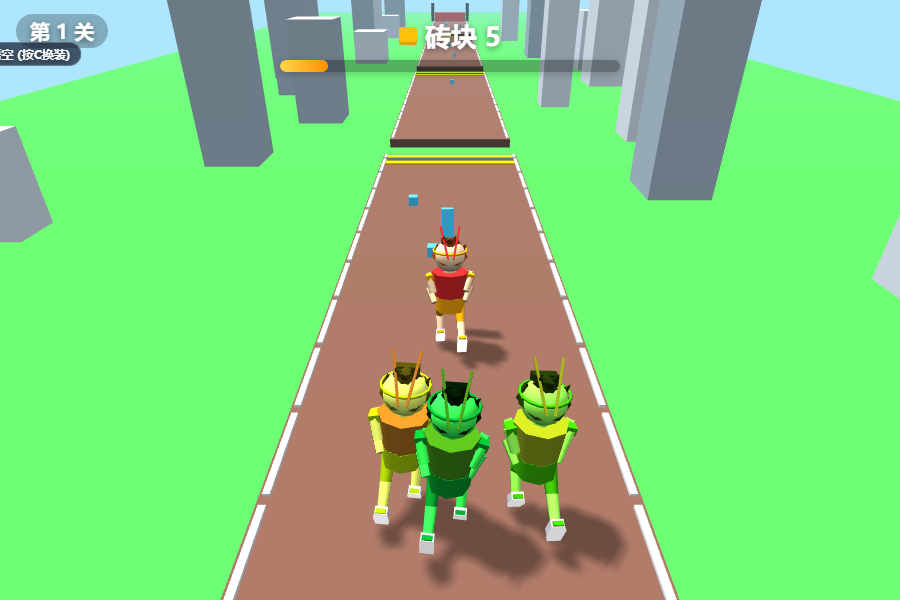
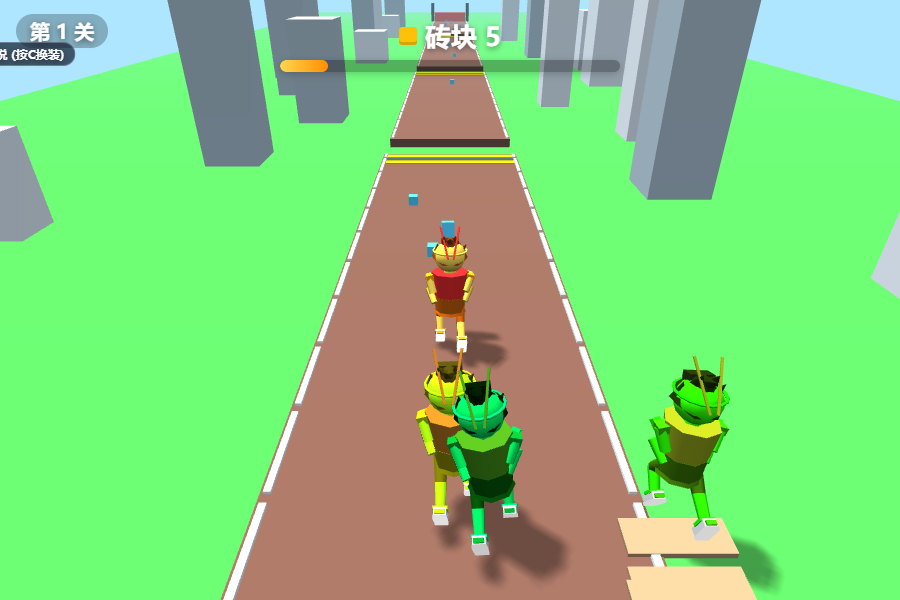
大圣模型对齐 AI Studio 规范 + 砖垛改双手捧握: 金毛靛皮肤/虎皮赭石裙/specialGold高亮/虎斑纹裙甲/步云履踝环(双端); plankMount 移至手上(y1.05); 板子池重建清理; 微信包已重建+补丁; 四门全绿

diff --git a/web-preview/index.html b/web-preview/index.html
@@ -642,10 +642,10 @@ function buildChar() {
   const leftArm = createArm(true);
   const rightArm = createArm(false);
 
-  // 砖垛挂点：胸前手抱位（AI Studio 母本方案；相机已调高成俯视追尾使其可见）
+  // 砖垛挂点：双手捧握位（torso 局部 0.33/0.5 → 世界约 y1.05，正对捧起的双手，对齐「捧在手上」）
   const plankMount = new THREE.Group();
   plankMount.name = 'PlankMount'; // 克隆体靠名字找回关节
-  plankMount.position.set(0, 0.58, 0.62);
+  plankMount.position.set(0, 0.33, 0.5);
   torsoGroup.add(plankMount);
 
   root.traverse((o) => { if (o.isMesh) { o.castShadow = true; o.receiveShadow = false; } }); // art-pack：仅主角投影
@@ -665,11 +665,12 @@ const SKINS = {
   wukong: {
     id: 'wukong',
     name: '齐天大圣·孙悟空',
-    badge: '🐵 孙悟空',
-    clothTop: 0xdc2626,
-    clothBottom: 0xf59e0b,
-    skin: 0xfbd0a2,
-    accent: 0xf59e0b,
+    badge: '👑 传说',
+    clothTop: 0xdc2626,      // 大红战袍
+    clothBottom: 0xb45309,   // 虎皮战裙/赭石（对齐 AI Studio chinesePresets 规范）
+    skin: 0xfcd34d,          // 金毛靛皮肤（对齐 AI Studio 规范）
+    accent: 0xf59e0b,        // 紧箍/金甲金
+    specialGold: 0xfde047,   // 高亮金（对齐 AI Studio 规范）
     hair: 0x78350f,
   },
   nezha: {
@@ -762,8 +763,10 @@ function applySkin(c, skinKey) {
   CHAR_MATS.hair.color.setHex(s.hair);
 
   if (s.id === 'wukong' && accH && accT) {
-    const circletMat = new THREE.MeshLambertMaterial({ color: 0xf59e0b });
-    const circlet = new THREE.Mesh(new THREE.TorusGeometry(0.335, 0.022, 6, 16), circletMat);
+    // specialGold 高亮金 + base 金（对齐 AI Studio 规范的双金层次）
+    const goldMat = new THREE.MeshLambertMaterial({ color: 0xf59e0b });
+    const specialGoldMat = new THREE.MeshLambertMaterial({ color: 0xfde047 });
+    const circlet = new THREE.Mesh(new THREE.TorusGeometry(0.335, 0.022, 6, 16), specialGoldMat);
     circlet.rotation.x = Math.PI / 2 + 0.1;
     circlet.position.set(0, 0.12, 0.02);
     accH.add(circlet);
@@ -775,22 +778,37 @@ function applySkin(c, skinKey) {
       plume.rotation.set(-0.65, sx * 0.18, sx * 0.12);
       accH.add(plume);
     }
-    const plate = new THREE.Mesh(new THREE.BoxGeometry(0.24, 0.24, 0.06), circletMat);
+    // 锁子黄金甲护心镜（specialGold 高光）
+    const plate = new THREE.Mesh(new THREE.BoxGeometry(0.24, 0.24, 0.06), specialGoldMat);
     plate.position.set(0, 0.55, 0.34);
     accT.add(plate);
     for (const sx of [-1, 1]) {
-      const pauldron = new THREE.Mesh(new THREE.BoxGeometry(0.2, 0.12, 0.18), circletMat);
+      const pauldron = new THREE.Mesh(new THREE.BoxGeometry(0.2, 0.12, 0.18), goldMat);
       pauldron.position.set(sx * 0.38, 0.72, 0);
       pauldron.rotation.z = sx * -0.25;
       accT.add(pauldron);
     }
-    const skirt = new THREE.Mesh(new THREE.BoxGeometry(0.28, 0.26, 0.05), plumeMat);
-    skirt.position.set(0, 0.2, 0.18);
-    skirt.rotation.x = 0.2;
+    // 虎皮战裙：外扩裙甲 + 深色虎斑纹（对齐 AI Studio 规范的虎皮裙）
+    const skirt = new THREE.Mesh(new THREE.CylinderGeometry(0.17, 0.33, 0.3, 8), new THREE.MeshLambertMaterial({ color: 0xb45309 }));
+    skirt.position.set(0, 0.1, 0);
     accT.add(skirt);
-    const beltBuckle = new THREE.Mesh(new THREE.BoxGeometry(0.12, 0.08, 0.04), circletMat);
+    for (let i = 0; i < 3; i++) {
+      const stripe = new THREE.Mesh(new THREE.BoxGeometry(0.05, 0.26, 0.05), new THREE.MeshLambertMaterial({ color: 0x451a03 }));
+      const ang = (i / 3) * Math.PI * 2 + 0.4;
+      stripe.position.set(Math.sin(ang) * 0.25, 0.1, Math.cos(ang) * 0.25);
+      stripe.rotation.y = -ang;
+      accT.add(stripe);
+    }
+    const beltBuckle = new THREE.Mesh(new THREE.BoxGeometry(0.12, 0.08, 0.04), specialGoldMat);
     beltBuckle.position.set(0, 0.32, 0.32);
     accT.add(beltBuckle);
+    // 步云履：金箍踝环（鞋身为白，金环点出「步云履」）
+    for (const leg of [c.leftLeg, c.rightLeg]) {
+      if (!leg || !leg.foot) continue;
+      const anklet = new THREE.Mesh(new THREE.BoxGeometry(0.21, 0.045, 0.21), specialGoldMat);
+      anklet.position.set(0, 0.0, 0.02);
+      leg.foot.add(anklet);
+    }
   } else if (s.id === 'nezha' && accH && accT) {
     const bunMat = new THREE.MeshLambertMaterial({ color: 0x0f172a });
     const bunRibbonMat = new THREE.MeshLambertMaterial({ color: 0xdc2626 });
@@ -1684,6 +1702,38 @@ window.__game = {
   resetProgress: () => { qaSession = true; prog.reset(); },
   renderOnce: () => renderer.render(scene, camera),
   canvas: () => renderer.domElement,
+  // QA 调试：列出玩家身边贴地/可疑物体（定位“躺在地上跟随的”是什么）
+  debugGround: () => {
+    const out = [];
+    const p = player.position;
+    scene.traverse((n) => {
+      if (!n.isMesh && !n.isGroup) return;
+      const wp = n.getWorldPosition(new (Object.getPrototypeOf(p).constructor)());
+      const dx = wp.x - p.x, dz = wp.z - p.z;
+      if (dx * dx + dz * dz > 144) return; // 12m 内
+      const kind = n.name || n.type;
+      out.push({ kind, name: n.name || '(anon)', y: Math.round(wp.y * 100) / 100, dx: Math.round(dx * 10) / 10, dz: Math.round(dz * 10) / 10, parent: n.parent ? (n.parent.name || n.parent.type) : '-' });
+    });
+    return out.filter((o) => o.y < 0.6).slice(0, 30);
+  },
+  // QA 调试：对手运行时姿态（关节是否找到、位置、动画相位）
+  debugOpponents: () => opponents.map((o) => {
+    const r = rigOf(o.rig);
+    const missing = [];
+    if (!r.torso) missing.push('torso');
+    if (!r.head) missing.push('head');
+    if (!r.leftLeg || !r.leftLeg.hip) missing.push('leftLeg.hip');
+    if (!r.rightLeg || !r.rightLeg.hip) missing.push('rightLeg.hip');
+    if (!r.leftArm || !r.leftArm.shoulder) missing.push('leftArm.shoulder');
+    if (!r.rightArm || !r.rightArm.shoulder) missing.push('rightArm.shoulder');
+    return {
+      pos: [Math.round(o.rig.position.x * 100) / 100, Math.round(o.rig.position.y * 100) / 100, Math.round(o.rig.position.z * 100) / 100],
+      alive: o.alive, finished: o.finished, bricks: Math.round(o.bricks),
+      hipAngleX: r.leftLeg && r.leftLeg.hip ? Math.round(r.leftLeg.hip.rotation.x * 100) / 100 : null,
+      torsoY: r.torso ? Math.round(r.torso.position.y * 100) / 100 : null,
+      missing,
+    };
+  }),
   // G1 数据回流：导出遥测 events.json（Qoder telemetry-report.mjs 的输入）
   dumpTelemetry: () => {
     const arr = JSON.parse(localStorage.getItem(TELEMETRY_KEY) || '[]');

diff --git a/assets/scripts/CharacterRig.ts b/assets/scripts/CharacterRig.ts
@@ -47,6 +47,7 @@ const GEO = {
   circlet: () => mesh('circlet', () => utils.createMesh(primitives.torus(0.335, 0.025, { radialSegments: 8, tubularSegments: 20 }))),
   bun: () => mesh('bun', () => utils.createMesh(primitives.sphere(0.12, { segments: 8 }))),
   qiankun: () => mesh('qiankun', () => utils.createMesh(primitives.torus(0.24, 0.028, { radialSegments: 8, tubularSegments: 20 }))),
+  tigerSkirt: () => mesh('tigerSkirt', () => utils.createMesh(primitives.cylinder(0.17, 0.33, 0.3, { radialSegments: 8 }))),
   pony: () => mesh('pony', () => utils.createMesh(primitives.cone(0.14, 0.55, { radialSegments: 6 }))),
   sash: () => mesh('sash', () => utils.createMesh(primitives.cylinder(0.35, 0.33, 0.12, { radialSegments: 8 }))),
 };
@@ -57,6 +58,7 @@ const mats: Record<string, Material> = {
   hair: new Material(), shoes: new Material(), eyes: new Material(), white: new Material(),
   blush: new Material(), smile: new Material(),
   gold: new Material(), red: new Material(), dark: new Material(),
+  specialGold: new Material(), tigerStripe: new Material(),
 };
 function initMat(m: Material, hex: number, alpha = 255): void {
   m.initialize({ effectName: 'builtin-unlit', defines: { USE_COLOR: true }, technique: 0 });
@@ -76,6 +78,8 @@ initMat(mats.smile, 0x991b1b);
 initMat(mats.gold, 0xf59e0b);
 initMat(mats.red, 0xdc2626);
 initMat(mats.dark, 0x0f172a);
+initMat(mats.specialGold, 0xfde047); // 高亮金（wukong 对齐 AI Studio 规范）
+initMat(mats.tigerStripe, 0x451a03); // 虎斑纹（wukong 虎皮裙）
 
 // ---------- 国风与经典角色预设（AI Studio 优势移植） ----------
 export type CharSkinType = 'runner' | 'wukong' | 'nezha' | 'guofeng' | 'panda' | 'ninja';
@@ -87,6 +91,7 @@ export interface SkinDef {
   clothBottom: number;
   skin: number;
   accent: number;
+  specialGold?: number; // 高亮金（wukong 对齐 AI Studio 规范）
   hair: number;
 }
 
@@ -94,10 +99,11 @@ export const CHAR_SKINS: Record<CharSkinType, SkinDef> = {
   wukong: {
     id: 'wukong',
     name: '齐天大圣·孙悟空',
-    clothTop: 0xdc2626,
-    clothBottom: 0xf59e0b,
-    skin: 0xfbd0a2,
-    accent: 0xf59e0b,
+    clothTop: 0xdc2626,      // 大红战袍
+    clothBottom: 0xb45309,   // 虎皮战裙/赭石（对齐 AI Studio chinesePresets 规范）
+    skin: 0xfcd34d,          // 金毛靛皮肤（对齐 AI Studio 规范）
+    accent: 0xf59e0b,        // 紧箍/金甲金
+    specialGold: 0xfde047,   // 高亮金（对齐 AI Studio 规范）
     hair: 0x78350f,
   },
   nezha: {
@@ -178,33 +184,39 @@ export function applyRigSkin(r: CharRig, skin: CharSkinType = activeSkin): void 
     if (band) band.active = false;
     if (ribbon) ribbon.active = false;
     if (hairGroup) hairGroup.active = true;
-    if (skinAccHead && skinAccTorso) {
-      // 纯金紧箍环
-      const circlet = prime(skinAccHead, GEO.circlet, mats.gold, 0, 0.12, 0.02, 'Circlet');
+      // 凤翅紫金冠·紧箍（specialGold 高亮金）
+      const circlet = prime(skinAccHead, GEO.circlet, mats.specialGold, 0, 0.12, 0.02, 'Circlet');
       circlet.eulerAngles = new Vec3(90 + 5.7, 0, 0);
-      // 凤翅紫金冠双雉翎飘带
+      // 凤翅紫金冠双雉翎
       for (const sx of [-1, 1]) {
         const plume = spawnBox(skinAccHead, 'limb', 0.035, 0.018, 0.75, sx * 0.12, 0.35, -0.15, sx < 0 ? 'PlumeL' : 'PlumeR');
         plume.getComponent(MeshRenderer)!.material = mats.red;
         plume.eulerAngles = new Vec3(-37, sx * 10, sx * 7);
       }
-      // 锁子黄金甲护心镜
+      // 锁子黄金甲护心镜（specialGold 高光）
       const plate = spawnBox(skinAccTorso, 'limb', 0.24, 0.24, 0.06, 0, 0.55, 0.34, 'Breastplate');
-      plate.getComponent(MeshRenderer)!.material = mats.gold;
-      // 凤翅金甲双护肩 (Pauldrons)
+      plate.getComponent(MeshRenderer)!.material = mats.specialGold;
+      // 黄金双兽吞 (Pauldrons)
       for (const sx of [-1, 1]) {
         const pauldron = spawnBox(skinAccTorso, 'limb', 0.2, 0.12, 0.18, sx * 0.38, 0.72, 0, sx < 0 ? 'PauldronL' : 'PauldronR');
         pauldron.getComponent(MeshRenderer)!.material = mats.gold;
         pauldron.eulerAngles = new Vec3(0, 0, sx * -15);
       }
-      // 战袍下摆战裙 (WarSkirt)
-      const skirt = spawnBox(skinAccTorso, 'limb', 0.28, 0.26, 0.05, 0, 0.2, 0.18, 'WarSkirt');
-      skirt.getComponent(MeshRenderer)!.material = mats.red;
-      skirt.eulerAngles = new Vec3(12, 0, 0);
-      // 金色祥云腰扣
+      // 虎皮战裙：外扩裙甲 + 深色虎斑纹（对齐 AI Studio 规范）
+      prime(skinAccTorso, GEO.tigerSkirt, mats.tigerStripe, 0, 0.1, 0, 'TigerSkirt');
+      for (let i = 0; i < 3; i++) {
+        const ang = (i / 3) * Math.PI * 2 + 0.4;
+        const stripe = spawnBox(skinAccTorso, 'limb', 0.05, 0.26, 0.05, Math.sin(ang) * 0.25, 0.1, Math.cos(ang) * 0.25, `Stripe${i}`);
+        stripe.getComponent(MeshRenderer)!.material = mats.dark;
+      }
+      // 兽首腰带扣（specialGold）
       const beltBuckle = spawnBox(skinAccTorso, 'limb', 0.12, 0.08, 0.04, 0, 0.32, 0.32, 'BeltBuckle');
-      beltBuckle.getComponent(MeshRenderer)!.material = mats.gold;
-    }
+      beltBuckle.getComponent(MeshRenderer)!.material = mats.specialGold;
+      // 步云履：双踝金环（鞋身白 + 金环点出「步云履」）
+      for (const leg of [r.leftLeg, r.rightLeg]) {
+        const anklet = spawnBox(leg.foot, 'limb', 0.21, 0.045, 0.21, 0, 0.0, 0.02, 'Anklet');
+        anklet.getComponent(MeshRenderer)!.material = mats.specialGold;
+      }
   } else if (skin === 'nezha') {
     if (band) band.active = false;
     if (ribbon) ribbon.active = false;
@@ -391,7 +403,8 @@ export function buildCharacter(root: Node, skin: CharSkinType = activeSkin): Cha
   const rightArm = createArm(false);
 
   // 砖垛挂点：胸前手抱位（AI Studio 母本方案；相机已调高成俯视追尾使其可见）
-  const plankMount = joint(torso, 0, 0.58, 0.62, 'PlankMount');
+  // 砖垛挂点：双手捧握位（torso 局部 0.33/0.5 → 世界约 y1.05，正对捧起的双手，对齐「捧在手上」）
+  const plankMount = joint(torso, 0, 0.33, 0.5, 'PlankMount');
 
   return { root, torso, head, ribbon, leftArm, rightArm, leftLeg, rightLeg, plankMount };
 }

diff --git a/assets/scripts/TrackBuilder.ts b/assets/scripts/TrackBuilder.ts
@@ -90,6 +90,8 @@ export class TrackBuilder extends Component {
     this.node.removeAllChildren();
     this.gateWalls = [];
     this.stackNodes = [];
+    this.plankPool = []; // 重建时清掉板子池（避免上一局轨迹残留）
+    this.plankCursor = 0;
     // 地面（跑道下面的绿地，给纵深参照；世界空间居中，不随弯道）
     this.box('ground', new Vec3(60, 0.4, cfg.levelLength + 80), new Vec3(0, -0.6, level.length / 2 - 10), this.node);
     this.buildRoad();
